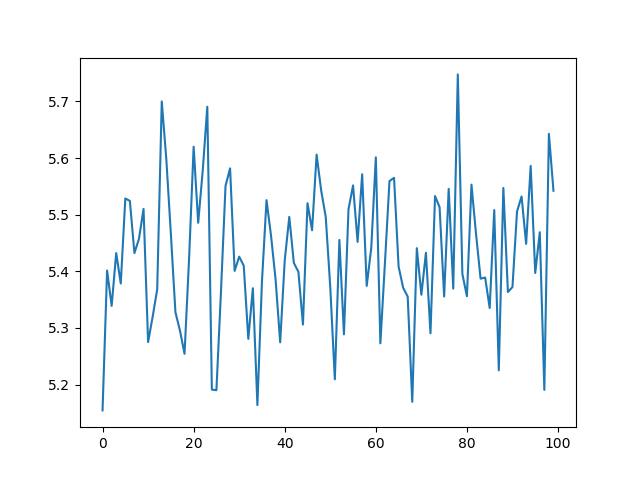
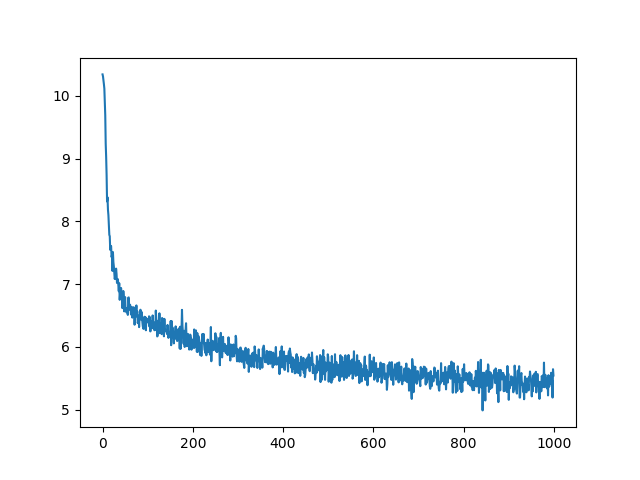
figure

diff --git a/utils.py b/utils.py
@@ -39,7 +39,7 @@ def plotLoss(filename, figurename):
   for i in range(len(strs) - 1):
     points.append(float(strs[i]))
   plt.figure()
-  plt.plot(points[-100:])
+  plt.plot(points[-1000:])
   plt.savefig(figurename)
   plt.close()
 
